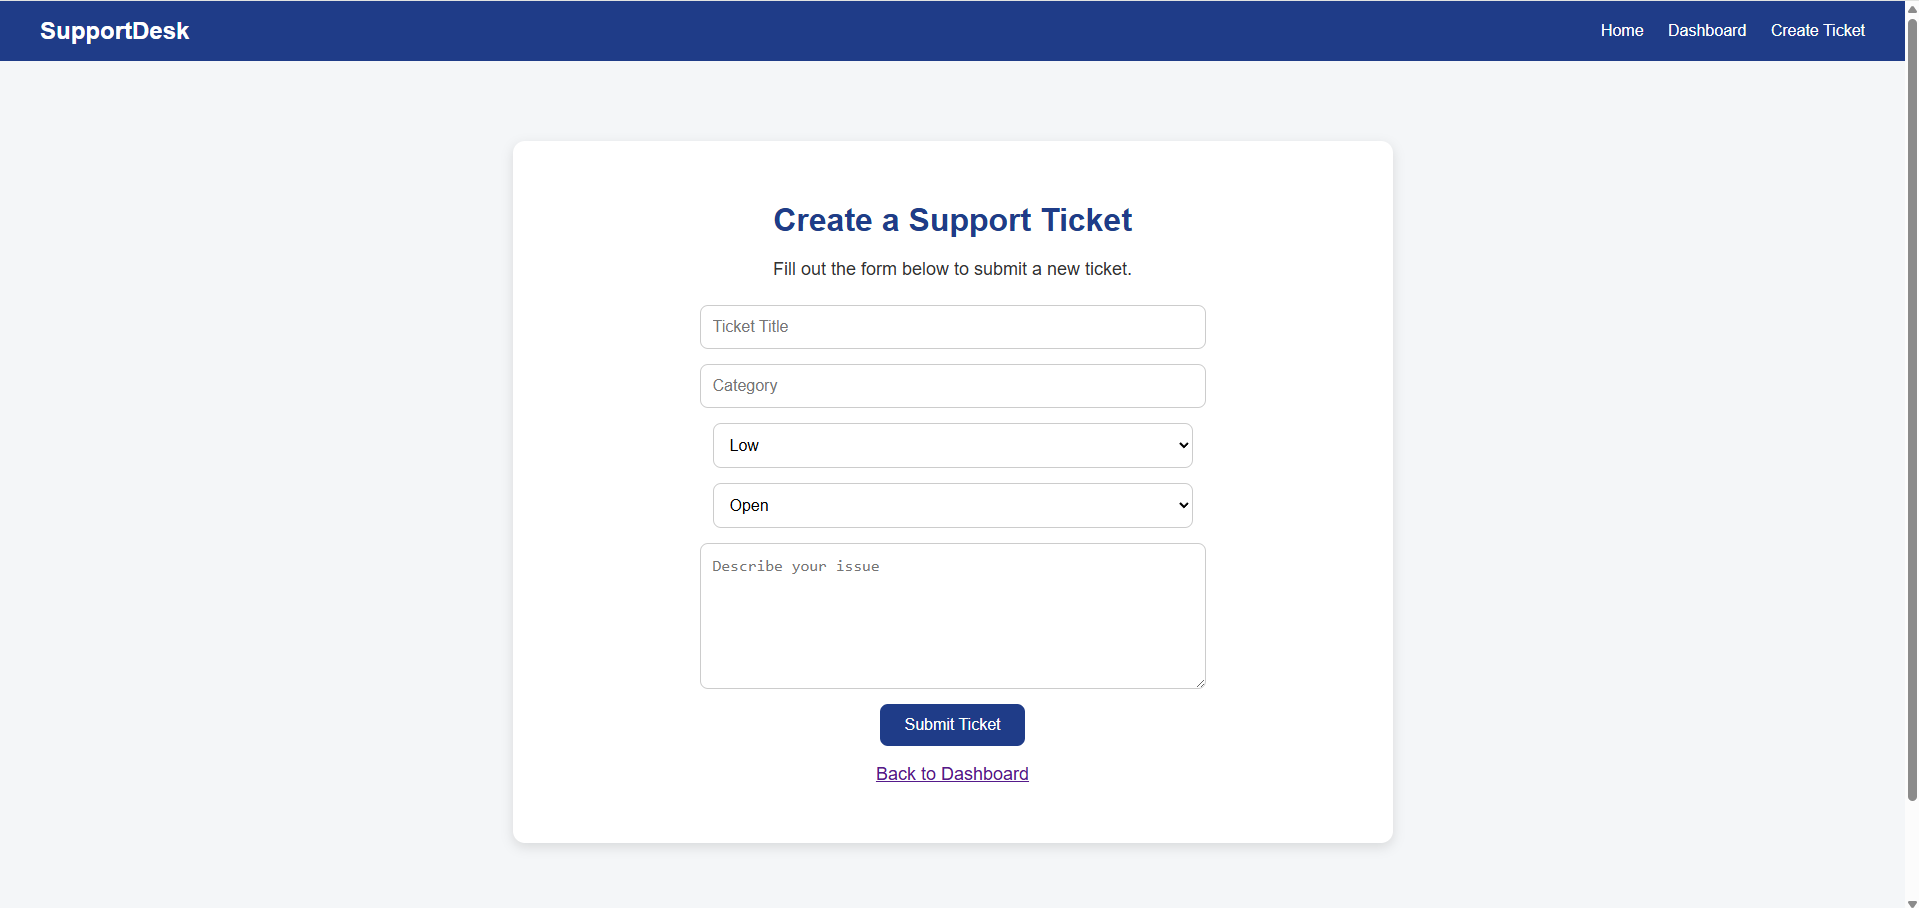
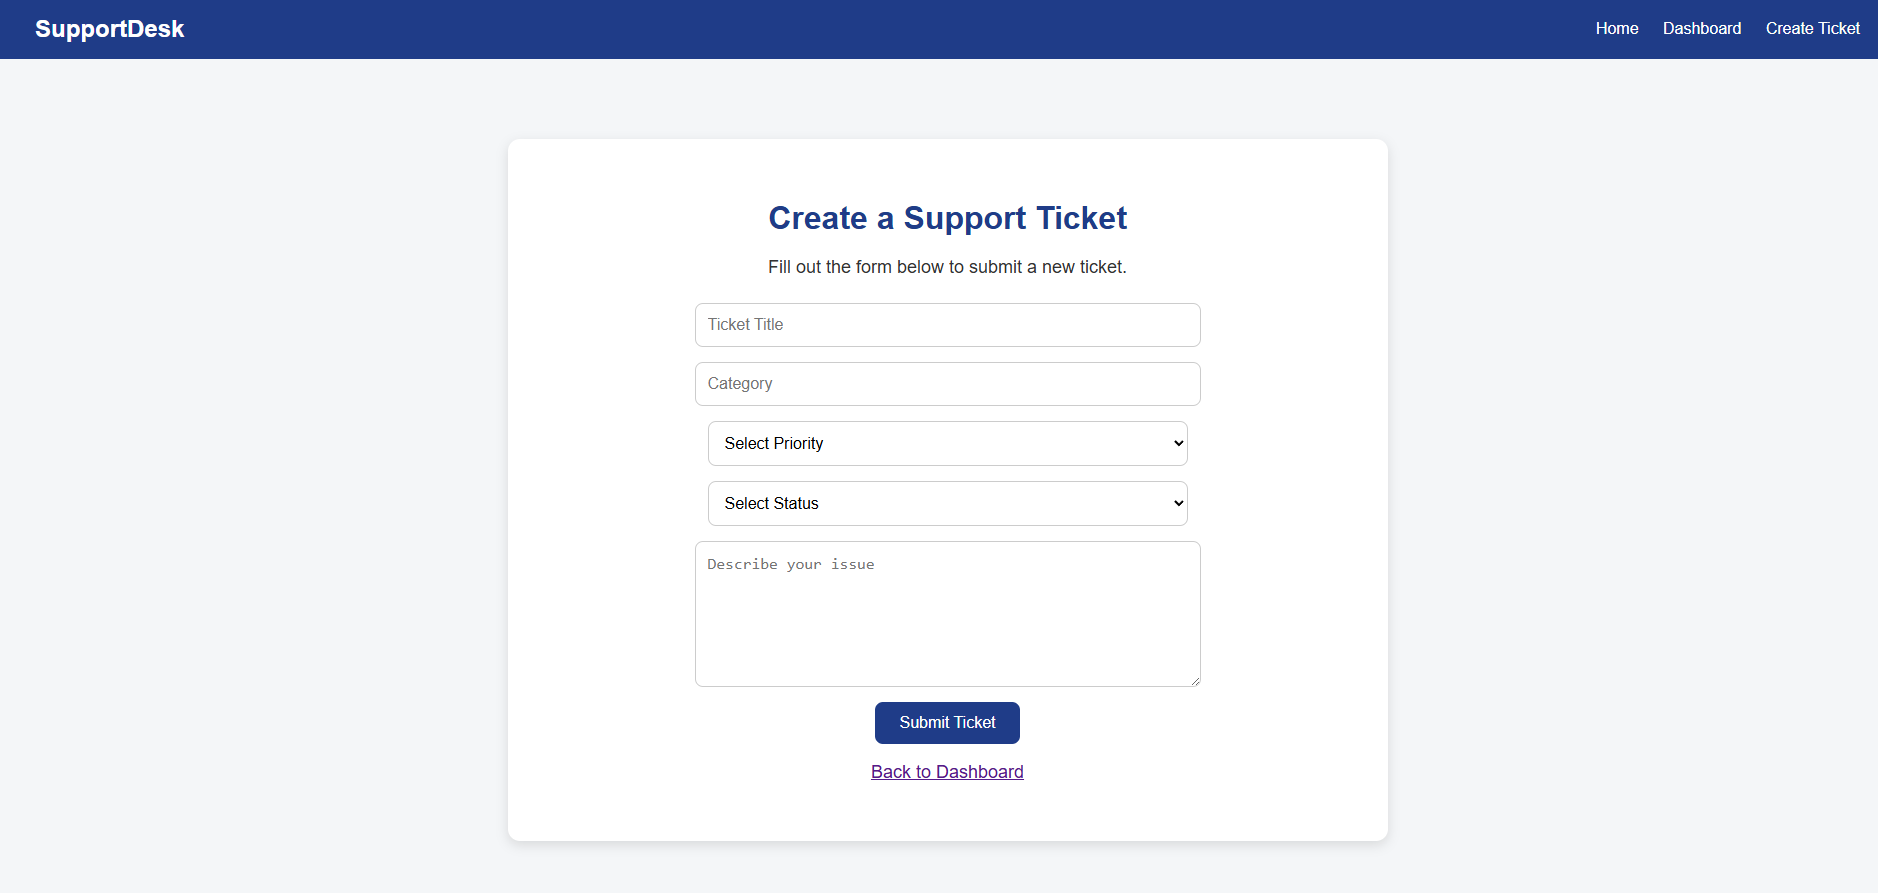
Add CRUD functionality to SupportDesk

diff --git a/templates/dashboard.html b/templates/dashboard.html
@@ -12,25 +12,32 @@
 </div>
 
 <div class="ticket-list">
+    {% if tickets %}
+    {% for ticket in tickets %}
     <div class="ticket-card">
-        <h3>Password Reset Request</h3>
-        <p><strong>Category:</strong> Account Access</p>
-        <p><strong>Priority:</strong> High</p>
-        <p><strong>Status:</strong> <span class="status open">Open</span></p>
-    </div>
+        <h3>{{ ticket["title"] }}</h3>
+        <p><strong>Category:</strong> {{ ticket["category"] }}</p>
+        <p><strong>Priority:</strong> {{ ticket["priority"] }}</p>
+        <p>
+            <strong>Status:</strong>
+            <span class="status
+                            {% if ticket['status'] == 'Open' %}open{% endif %}
+                            {% if ticket['status'] == 'In Progress' %}progress{% endif %}
+                            {% if ticket['status'] == 'Resolved' %}resolved{% endif %}
+                        ">
+                {{ ticket["status"] }}
+            </span>
+        </p>
+        <p><strong>Description:</strong> {{ ticket["description"] }}</p
 
-    <div class="ticket-card">
-        <h3>Wi-Fi Not Connecting</h3>
-        <p><strong>Category:</strong> Network</p>
-        <p><strong>Priority:</strong> Medium</p>
-        <p><strong>Status:</strong> <span class="status progress">In Progress</span></p>
+        <div class="btns">
+            <a href="/edit-ticket/{{ ticket['id'] }}" class="btn">Edit</a>
+            <a href="/delete-ticket/{{ ticket['id'] }}" class="btn delete-btn">Delete</a>
+        </div>
     </div>
-
-    <div class="ticket-card">
-        <h3>Software Installation Help</h3>
-        <p><strong>Category:</strong> Software</p>
-        <p><strong>Priority:</strong> Low</p>
-        <p><strong>Status:</strong> <span class="status resolved">Resolved</span></p>
-    </div>
+    {% endfor %}
+    {% else %}
+    <p>No tickets submitted yet.</p>
+    {% endif %}
 </div>
 {% endblock %}

diff --git a/templates/edit_ticket.html b/templates/edit_ticket.html
@@ -1,0 +1,32 @@
+{% extends "base.html" %}
+
+{% block title %}Edit Ticket - SupportDesk{% endblock %}
+
+{% block content %}
+    <h1>Edit Ticket</h1>
+    <p>Update the ticket information below.</p>
+
+    <form method="POST">
+        <input type="text" name="title" value="{{ ticket['title'] }}" required>
+
+        <input type="text" name="category" value="{{ ticket['category'] }}" required>
+
+        <select name="priority" required>
+            <option {% if ticket['priority'] == 'Low' %}selected{% endif %}>Low</option>
+            <option {% if ticket['priority'] == 'Medium' %}selected{% endif %}>Medium</option>
+            <option {% if ticket['priority'] == 'High' %}selected{% endif %}>High</option>
+        </select>
+
+        <select name="status" required>
+            <option {% if ticket['status'] == 'Open' %}selected{% endif %}>Open</option>
+            <option {% if ticket['status'] == 'In Progress' %}selected{% endif %}>In Progress</option>
+            <option {% if ticket['status'] == 'Resolved' %}selected{% endif %}>Resolved</option>
+        </select>
+
+        <textarea name="description" required>{{ ticket['description'] }}</textarea>
+
+        <button type="submit" class="btn">Save Changes</button>
+    </form>
+
+    <p><a href="/dashboard">Back to Dashboard</a></p>
+{% endblock %}

diff --git a/templates/create_ticket.html b/templates/create_ticket.html
@@ -6,24 +6,26 @@
 <h1>Create a Support Ticket</h1>
 <p>Fill out the form below to submit a new ticket.</p>
 
-<form action="/dashboard">
-    <input type="text" placeholder="Ticket Title">
+<form method="POST">
+    <input type="text" name="title" placeholder="Ticket Title" required>
 
-    <input type="text" placeholder="Category">
+    <input type="text" name="category" placeholder="Category" required>
 
-    <select>
+    <select name="priority" required>
+        <option value="">Select Priority</option>
         <option>Low</option>
         <option>Medium</option>
         <option>High</option>
     </select>
 
-    <select>
+    <select name="status" required>
+        <option value="">Select Status</option>
         <option>Open</option>
         <option>In Progress</option>
         <option>Resolved</option>
     </select>
 
-    <textarea placeholder="Describe your issue"></textarea>
+    <textarea name="description" placeholder="Describe your issue" required></textarea>
 
     <button type="submit" class="btn">Submit Ticket</button>
 </form>

diff --git a/app.py b/app.py
@@ -1,6 +1,25 @@
-from flask import Flask, render_template
+from flask import Flask, render_template, request, redirect
+import sqlite3
 
 app = Flask(__name__)
+
+def init_db():
+    conn = sqlite3.connect("supportdesk.db")
+    cursor = conn.cursor()
+
+    cursor.execute("""
+        CREATE TABLE IF NOT EXISTS tickets (
+            id INTEGER PRIMARY KEY AUTOINCREMENT,
+            title TEXT NOT NULL,
+            category TEXT NOT NULL,
+            priority TEXT NOT NULL,
+            status TEXT NOT NULL,
+            description TEXT NOT NULL
+        )
+    """)
+
+    conn.commit()
+    conn.close()
 
 @app.route("/")
 def home():
@@ -16,11 +35,76 @@ def login():
 
 @app.route("/dashboard")
 def dashboard():
-    return render_template("dashboard.html")
+    conn = sqlite3.connect("supportdesk.db")
+    conn.row_factory = sqlite3.Row
+    cursor = conn.cursor()
+    cursor.execute("SELECT * FROM tickets")
+    tickets = cursor.fetchall()
+    conn.close()
 
-@app.route("/create-ticket")
+    return render_template("dashboard.html", tickets=tickets)
+
+@app.route("/create-ticket", methods=["GET", "POST"])
 def create_ticket():
+    if request.method == "POST":
+        title = request.form["title"]
+        category = request.form["category"]
+        priority = request.form["priority"]
+        status = request.form["status"]
+        description = request.form["description"]
+
+        conn = sqlite3.connect("supportdesk.db")
+        cursor = conn.cursor()
+        cursor.execute("""
+            INSERT INTO tickets (title, category, priority, status, description)
+            VALUES (?, ?, ?, ?, ?)
+        """, (title, category, priority, status, description))
+        conn.commit()
+        conn.close()
+
+        return redirect("/dashboard")
+
     return render_template("create_ticket.html")
 
+@app.route("/delete-ticket/<int:ticket_id>")
+def delete_ticket(ticket_id):
+    conn = sqlite3.connect("supportdesk.db")
+    cursor = conn.cursor()
+    cursor.execute("DELETE FROM tickets WHERE id = ?", (ticket_id,))
+    conn.commit()
+    conn.close()
+
+    return redirect("/dashboard")
+
+@app.route("/edit-ticket/<int:ticket_id>", methods=["GET", "POST"])
+def edit_ticket(ticket_id):
+    conn = sqlite3.connect("supportdesk.db")
+    conn.row_factory = sqlite3.Row
+    cursor = conn.cursor()
+
+    if request.method == "POST":
+        title = request.form["title"]
+        category = request.form["category"]
+        priority = request.form["priority"]
+        status = request.form["status"]
+        description = request.form["description"]
+
+        cursor.execute("""
+            UPDATE tickets
+            SET title = ?, category = ?, priority = ?, status = ?, description = ?
+            WHERE id = ?
+        """, (title, category, priority, status, description, ticket_id))
+        conn.commit()
+        conn.close()
+
+        return redirect("/dashboard")
+
+    cursor.execute("SELECT * FROM tickets WHERE id = ?", (ticket_id,))
+    ticket = cursor.fetchone()
+    conn.close()
+
+    return render_template("edit_ticket.html", ticket=ticket)
+
 if __name__ == "__main__":
+    init_db()
     app.run(debug=True)

diff --git a/app-backup.py b/app-backup.py
@@ -1,0 +1,26 @@
+from flask import Flask, render_template
+
+app = Flask(__name__)
+
+@app.route("/")
+def home():
+    return render_template("index.html")
+
+@app.route("/register")
+def register():
+    return render_template("register.html")
+
+@app.route("/login")
+def login():
+    return render_template("login.html")
+
+@app.route("/dashboard")
+def dashboard():
+    return render_template("dashboard.html")
+
+@app.route("/create-ticket")
+def create_ticket():
+    return render_template("create_ticket.html")
+
+if __name__ == "__main__":
+    app.run(debug=True)

diff --git a/README.md b/README.md
@@ -8,9 +8,12 @@ It allows users to navigate through a simple support workflow with login, regist
 - Home page with navigation
 - Login page
 - Register page
-- Dashboard with sample support tickets
-- Create Ticket form
+- Dashboard with real support tickets
+- Create ticket form
+- Edit existing tickets
+- Delete tickets
 - Status labels for Open, In Progress, and Resolved tickets
+- Store ticket data using SQLite
 - Clean user interface with reusable Flask templates
 
 ## Tech Stack
@@ -55,13 +58,6 @@ I built this project to strengthen my portfolio for entry-level software enginee
 - frontend styling
 - basic help desk workflow design
 
-## Future Improvements
-
-- Add real authentication
-- Store tickets in a database
-- Allow users to submit and save real tickets
-- Add ticket editing and status updates
-- Add admin and user roles
 
 ## Screenshots
 
@@ -79,3 +75,6 @@ I built this project to strengthen my portfolio for entry-level software enginee
 
 ### Create Ticket Page
 ![Create Ticket Page](screenshots/create-ticket-page.png)
+
+### Edit Ticket Page
+![Edit Ticket Page](screenshots/edit-ticket-page.png)
